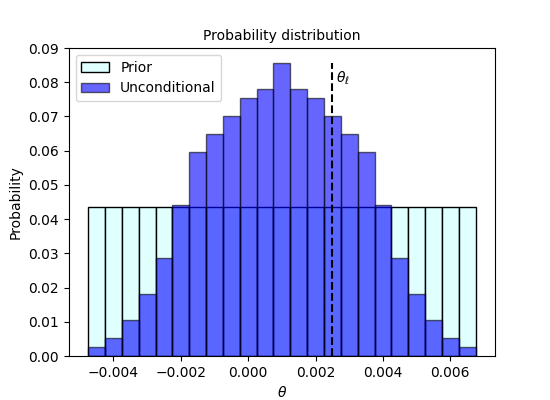
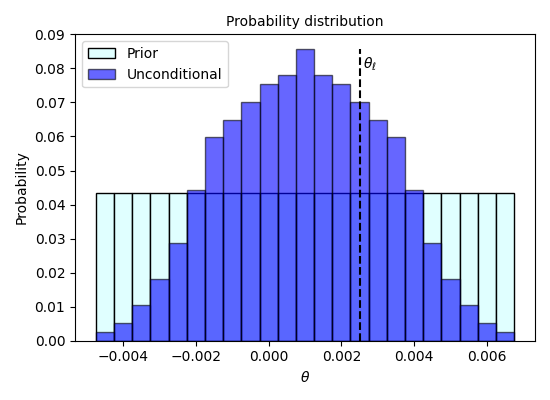
Update 7

Changed region(s): [[0.0, 0.03, 0.9582, 0.96], [0.6491, 0.12, 0.68, 0.18], [0.4945, 0.96, 0.5255, 0.99]]

diff --git a/stochastic_processes.py b/stochastic_processes.py
@@ -48,7 +48,7 @@ class Stochastic(object):
     """
 
 
-    def __init__(self, x0=0.0, dt=0.1, T=100, change=False, seed=True):
+    def __init__(self, x0=0.0, dt=0.1, T=100, change=False, seed=987654321):
 
         self.x0 = x0
         self.dt = dt
@@ -76,14 +76,14 @@ class BrownianMotion(Stochastic):
                 True if a seed is set; False otherwise
     """
 
-    def __init__(self, x0=0.0, dt=0.1, T=100, change=False, seed=True):
+    def __init__(self, x0=0.0, dt=0.1, T=100, change=False, seed=987654321):
 
         super().__init__(x0, dt, T, change, seed)
 
     def simulate(self):
 
-        if self.seed:
-            np.random.seed(987654321)
+        if self.seed != 0:
+            np.random.seed(self.seed)
 
         xt = self.x0
         dx_sim = []
@@ -113,8 +113,8 @@ class GeneralizedBrownianMotion(Stochastic):
 
             Parameters:
             ----------
-            mu : float
-                drift rate
+            mu : scalar or array, shape = [n_simuls, ]
+                constant (scalar) or time varying (array) drift rate
             sigma : float
                 variance rate
             x0 : float
@@ -129,7 +129,7 @@ class GeneralizedBrownianMotion(Stochastic):
                 True if a seed is set; False otherwise
     """
 
-    def __init__(self, mu=0.1, sigma=1.0, x0=0.0, dt=0.1, T=100, change=False, seed=True):
+    def __init__(self, mu=0.1, sigma=1.0, x0=0.0, dt=0.1, T=100, change=False, seed=987654321):
 
         super().__init__(x0, dt, T, change, seed)
         self.mu = mu
@@ -146,8 +146,8 @@ class GeneralizedBrownianMotion(Stochastic):
 
     def simulate(self):
 
-        if self.seed:
-            np.random.seed(987654321)
+        if self.seed != 0:
+            np.random.seed(self.seed)
 
         xt = self.x0
         dx_sim = []
@@ -177,8 +177,8 @@ class ItoProcess(Stochastic):
 
             Parameters:
             ----------
-            mu : float
-                drift rate
+            mu : scalar or array, shape = [n_simuls, ]
+                constant (scalar) or time varying (array) drift rate
             sigma : float
                 variance rate
             x0 : float
@@ -193,19 +193,28 @@ class ItoProcess(Stochastic):
                 True if a seed is set; False otherwise
     """
 
-    def __init__(self, mu=0.15, sigma=0.3, x0=100, dt=0.02, T=100, change=False, seed=True):
+    def __init__(self, mu=0.15, sigma=0.3, x0=100, dt=0.02, T=100, change=False, seed=987654321):
 
         super().__init__(x0, dt, T, change, seed)
         self.mu = mu
         self.sigma = sigma
 
-        if self.x0:
+        if np.ndim(self.mu) == 0:
+            self.drift = np.full(self.num_simuls, self.mu)
+
+        elif np.ndim(self.mu) != 0 and np.size(self.mu, 0) == self.num_simuls:
+            self.drift = self.mu
+
+        elif np.ndim(self.mu) != 0 and np.size(self.mu, 0) != self.num_simuls:
+            print('The size of mu is {} should be equal to T/dt={}'.format(np.size(self.mu, 0), self.num_simuls))
+
+        if self.x0 == 0:
             print("x0 can't be zero")
 
     def simulate(self):
 
-        if self.seed == 1:
-            np.random.seed(987654321)
+        if self.seed != 0:
+            np.random.seed(self.seed)
 
         xt = self.x0
         dx_sim = []

diff --git a/veronesi 2000.py b/veronesi 2000.py
@@ -64,6 +64,7 @@ ax.set_xlabel('C', fontsize=10)
 ax.set_title('U(C) for varying $\gamma$',fontsize=10)
 ax.set_xlim(xmin=np.min(cons), xmax=np.max(cons))
 
+fig_1.tight_layout()
 fig_1.savefig('images/fig_1.png')
 
 
@@ -100,8 +101,8 @@ pis = np.full(n, 1) / n
 
 # Precision
 
-sigma_D = 0.015
-sigma_e = 0.1
+sigma_D = 0.10
+sigma_e = 0.15
 h_D = 1 / sigma_D
 h_e = 1 / sigma_e
 
@@ -118,9 +119,10 @@ plt.ylabel('Probability', fontsize=10)
 plt.legend(loc='upper left', fontsize=10)
 plt.title('Probability distribution', fontsize=10)
 
+fig_2.tight_layout()
 fig_2.savefig('images/fig_2.png')
 
-# Risky asset process
+# Stochastic drift
 
 drift = np.random.choice(a=thetas, size=1, p=f1)
 
@@ -134,19 +136,41 @@ for t in range(periods-1):
 
         drift = np.append(drift, drift[-1])
 
-divid = GeneralizedBrownianMotion(x0=1, mu=drift, sigma=sigma_D, dt=dt, T=T, change=False, seed=True)
-dDD = divid.simulate()
+# Risky asset
+
+divid = ItoProcess(x0=1, mu=drift, sigma=sigma_D, dt=dt, T=T, change=True, seed=987654321)
+D_sim, dD_sim = divid.simulate()
+
+dDD_sim = dD_sim / D_sim
+
+# Signal
+
+signal = GeneralizedBrownianMotion(x0=1, mu=drift, sigma=sigma_e, dt=dt, T=T, change=True, seed=123456789)
+e_sim, de_sim = signal.simulate()
 
 # Plot simulated dDD
 
-fig_3, ax = plt.subplots(nrows=1, ncols=1, figsize=(5.5, 4))
+fig_3, ax = plt.subplots(nrows=1, ncols=2, figsize=(11, 4))
 
-ax.plot(dDD, color='b')
-ax.set_ylabel(r'$\frac{dD}{D}$', fontsize=10)
-ax.set_xlabel('t', fontsize=10)
-ax.set_title(r'$\frac{dD}{D}=\theta dt + \sigma_D dB_D$', fontsize=10)
-ax.set_xlim(xmin=0, xmax=periods)
+ax[0].plot(D_sim, color='b', label='Dividend')
+ax[0].plot(e_sim, color='r', label='Signal')
+ax[0].hlines(y=0, xmin=0, xmax=periods, color='black', linestyles='dashed')
+ax[0].set_ylabel(r'$D$' + ' and ' + r'$e$', fontsize=10)
+ax[0].set_xlabel('t', fontsize=10)
+ax[0].set_title(r'$D(t+1)=D(t) + dD(t)$' + ' and ' + r'$e(t+1)=e(t) + de(t)$', fontsize=10)
+ax[0].legend(loc='upper left', fontsize=10)
+ax[0].set_xlim(xmin=0, xmax=periods)
 
+ax[1].plot(dDD_sim, color='b', label='Dividend', zorder=5)
+ax[1].plot(de_sim, color='r', label='Signal', zorder=0)
+ax[1].hlines(y=0, xmin=0, xmax=periods, color='black', linestyles='dashed', zorder=10)
+ax[1].set_ylabel(r'$\frac{dD}{D}$' + ' and ' + r'$de$', fontsize=10)
+ax[1].set_xlabel('t', fontsize=10)
+ax[1].set_title(r'$\frac{dD}{D}=\theta dt + \sigma_D dB_D$' + ' and ' + r'$de=\theta dt + \sigma_e dB_e$', fontsize=10)
+ax[1].legend(loc='upper left', fontsize=10)
+ax[1].set_xlim(xmin=0, xmax=periods)
+
+fig_3.tight_layout()
 fig_3.savefig('images/fig_3.png')
 
 
